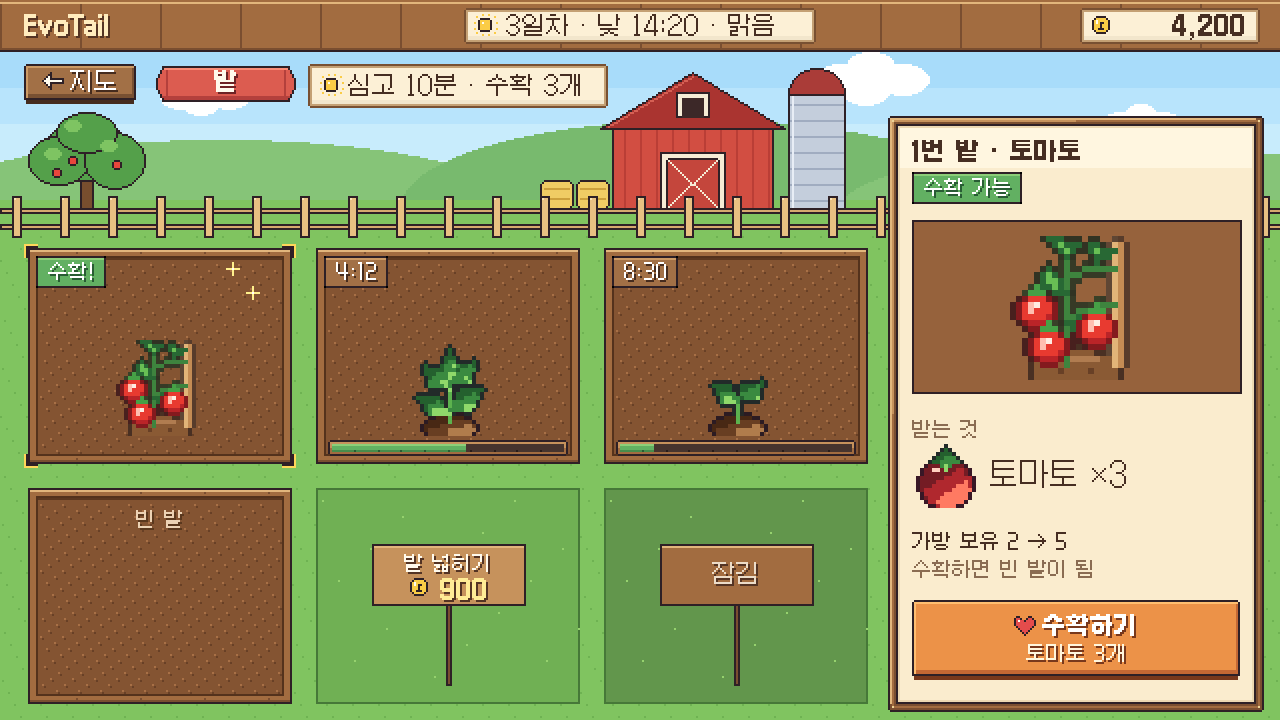
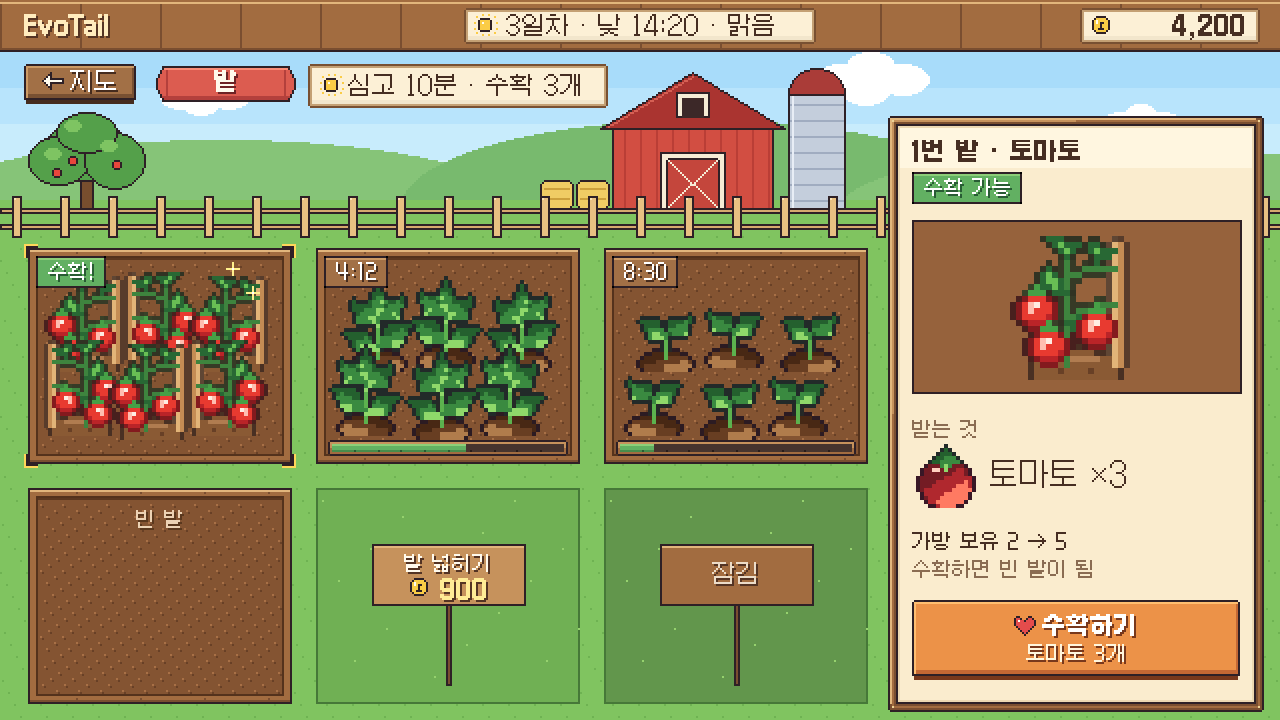
밭: 한 칸을 6포기로 채우기 · 감자·양파·밀 다 자란 그림 교체
- 작물 칸(심은 직후·새싹·자라는 중·다 자람)과 빈 밭 새싹 미리보기를 한 포기 그림(×2) 6번으로 채움.
  위치·홀수 번째 좌우 뒤집기는 plants.json plot_fill에서 읽음. 칩·게이지·반짝이는 작물 위에
- 수확 연출 시작과 함께 그 칸의 6포기는 바로 사라짐, 연출 동안 "빈 밭" 글씨 숨김
- 감자(알 3개 + 작은 싹)·양파·밀 다 자란 그림, tools/crops_v8.py, farm_icons.py·farm_mock.py, 목업 3장 갱신
- CLAUDE.md: 한 칸 = 6포기(plot_fill), 그림 다시 만드는 도구

Changed region(s): [[0.0312, 0.3667, 0.2188, 0.6111], [0.25, 0.3972, 0.4375, 0.6111], [0.4688, 0.4278, 0.6562, 0.6111]]

diff --git a/tools/crops_v8.py b/tools/crops_v8.py
@@ -1,0 +1,158 @@
+"""양파·밀·감자 v8: 손으로 찍는 도장(잎 한 장, 낟알 한 줄) 방식"""
+from PIL import Image, ImageDraw
+
+C = {'k': (36, 86, 44), 'G': (62, 134, 60), 'g': (104, 180, 80), 'l': (170, 224, 118), 'L': (208, 240, 150),
+     'h': (150, 170, 70), 'w': (255, 255, 255), 'y': (250, 206, 70), 'v': (196, 170, 230),
+     's': (140, 92, 54), 'S': (178, 126, 80), 'd': (100, 62, 36), 'o': (70, 44, 28),
+     'p': (218, 172, 108), 'P': (168, 118, 64), 'a': (244, 214, 160),
+     'Y': (255, 238, 160), 'u': (236, 192, 84), 'U': (196, 144, 50), 'b': (140, 96, 34), 'e': (190, 196, 96),
+     'n': (250, 214, 150), 'N': (226, 160, 86), 'M': (170, 102, 50), 'm': (120, 66, 34)}
+
+
+def put(px, x, y, ch):
+    if ch != '.' and 0 <= x < 24 and 0 <= y < 24: px[x, y] = C[ch] + (255,)
+
+
+def stamp(px, x, y, rows):
+    for j, r in enumerate(rows):
+        for i, ch in enumerate(r): put(px, x + i, y + j, ch)
+
+
+def soil(px, x0=3, x1=20, y=19):
+    """흙더미: 둥근 봉긋한 모양 (위 밝은 줄, 아래 진한 점)"""
+    im = Image.new('RGBA', (24, 24)); d = ImageDraw.Draw(im)
+    d.ellipse((x0, y, x1, y + 7), fill=C['s'] + (255,), outline=C['o'] + (255,))
+    d.line((x0 + 3, y + 1, x1 - 3, y + 1), fill=C['S'] + (255,))
+    for x in range(x0 + 4, x1 - 2, 4): d.point((x, y + 3), fill=C['d'] + (255,))
+    sp = im.load()
+    for yy in range(24):
+        for xx in range(24):
+            if sp[xx, yy][3] and not px[xx, yy][3]: px[xx, yy] = sp[xx, yy]
+
+
+LEAF_R = ['.kk.', 'klgk', 'kggk', '.kk.']          # 잎 한 장 (밝은 쪽 왼위)
+LEAF_Y = ['.kk.', 'kLlk', 'klhk', '.kk.']          # 다 자라 끝이 노릇한 잎
+
+
+def potato():
+    im = Image.new('RGBA', (24, 24)); px = im.load()
+    soil(px, 2, 21, 19)
+    for x, y in ((11, 18), (11, 17), (11, 16), (10, 15), (12, 15)): put(px, x, y, 'G')    # 줄기
+    leaves = [(10, 3, LEAF_R), (6, 5, LEAF_R), (14, 5, LEAF_Y), (3, 8, LEAF_R), (8, 8, LEAF_R), (12, 7, LEAF_R),
+              (16, 8, LEAF_R), (1, 12, LEAF_Y), (5, 11, LEAF_R), (10, 11, LEAF_R), (14, 11, LEAF_R), (18, 12, LEAF_R),
+              (6, 14, LEAF_R), (13, 14, LEAF_Y)]
+    for x, y, L_ in leaves: stamp(px, x, y, L_)
+    stamp(px, 10, 0, ['.w.', 'wyw', '.w.']); stamp(px, 16, 2, ['.v.', 'vyv', '.v.'])    # 감자꽃
+    stamp(px, 15, 19, ['.oo.', 'opPo'])                                                    # 흙 사이로 살짝
+    stamp(px, 5, 20, ['oaPo'])
+    return im
+
+
+def onion():
+    im = Image.new('RGBA', (24, 24)); px = im.load()
+    # 잎: 대롱 3개를 넓게 벌림 (사이 틈), 1칸 밝음 + 1칸 그림자, 끝은 바깥으로 휨
+    tubes = [((10, 12), (4, 2), -1), ((12, 12), (12, 0), 0), ((14, 12), (20, 2), 1)]
+    for (x0, y0), (x1, y1), bend in tubes:
+        n = max(abs(x1 - x0), abs(y1 - y0))
+        for t in range(n + 1):
+            x = round(x0 + (x1 - x0) * t / n); y = round(y0 + (y1 - y0) * t / n)
+            put(px, x - 1, y, 'k'); put(px, x, y, 'l' if t > n * .45 else 'g'); put(px, x + 1, y, 'G'); put(px, x + 2, y, 'k')
+        put(px, x1 + bend, y1 - 1, 'k'); put(px, x1, y1 - 1, 'k'); put(px, x1 + 1, y1 - 1, 'k')
+    for (x, y) in ((8, 8), (16, 8)): put(px, x, y, 'L')
+    stamp(px, 7, 11, ['...oooo...', '..onnNNo..', '.onnNNNMo.', 'onnNNNNNMo', 'onYNNNNMMo', 'onNNNNMMMo', '.oNNMMMMo.', '..oooooo..'])
+    soil(px, 2, 21, 17)
+    return im
+
+
+def wheat():
+    im = Image.new('RGBA', (24, 24)); px = im.load()
+    soil(px, 4, 19, 20)
+    # 잎 (노릇한 초록)
+    for (x0, y0), (x1, y1) in (((9, 20), (4, 12)), ((14, 20), (19, 12)), ((11, 20), (7, 15))):
+        n = max(abs(x1 - x0), abs(y1 - y0))
+        for t in range(n + 1): put(px, round(x0 + (x1 - x0) * t / n), round(y0 + (y1 - y0) * t / n), 'e')
+    EAR = ['.Y.', 'YuY', 'uUu', 'YuY', 'uUu', 'YuY', 'uUu', '.U.']                # 이삭 3x8, 낟알 줄무늬
+    for x, top in ((5, 4), (9, 1), (13, 2), (17, 5)):
+        for y in range(top + 8, 21): put(px, x + 1, y, 'b')                              # 줄기
+        stamp(px, x, top, EAR)
+        for i in range(3): put(px, x - 1 - i // 2, top - 1 - i, 'Y'); put(px, x + 3 + i // 2, top - 1 - i, 'Y')   # 까끄라기
+        put(px, x + 1, top - 1, 'Y')
+        for j in range(8):                                                                # 이삭 테두리
+            put(px, x - 1, top + j, 'b') if j not in (0, 7) else None
+            put(px, x + 3, top + j, 'b') if j not in (0, 7) else None
+    return im
+
+
+if __name__ == '__main__':
+    row = [potato(), onion(), wheat()]
+    o = Image.new('RGBA', (3 * 200 + 16, 208), (132, 84, 50, 255))
+    for i, im in enumerate(row): o.alpha_composite(im.resize((192, 192), Image.NEAREST), (8 + i * 200, 8))
+    o.save('../v8.png')
+
+
+# ================= v9: 동글동글 양파 / 감자 알 위주 =================
+ONION_BULB = ['.....oooo.....', '...oonnnNoo...', '..onnnnNNNMo..', '.onnYnnNNNNMo.', '.onYYnNNNNNMo.',
+              'onnYnnNNNNNMMo', 'onnnnNNNNNMMMo', 'onnnnNNNNNMMMo', '.onnNNNNNMMMo.', '.oNNNNNNMMMMo.',
+              '..ooNNNMMMoo..', '....oooooo....']
+POT_BIG = ['...ooooo...', '.oopppppoo.', 'oapppppppPo', 'oaappPppPPo', 'opppppppPPo', 'oppPpppPPPo', '.oPPPPPPPo.', '..ooooooo..']
+POT_SMALL = ['..oooo..', '.oappPo.', 'oaapppPo', 'opPppPPo', '.oPPPPo.', '..oooo..']
+
+
+def _soil_back(px, box):
+    im = Image.new('RGBA', (24, 24)); d = ImageDraw.Draw(im)
+    d.ellipse(box, fill=C['s'] + (255,), outline=C['o'] + (255,))
+    d.line((box[0] + 3, box[1] + 1, box[2] - 3, box[1] + 1), fill=C['S'] + (255,))
+    for x in range(box[0] + 4, box[2] - 2, 4): d.point((x, box[1] + 3), fill=C['d'] + (255,))
+    sp = im.load()
+    for y in range(24):
+        for x in range(24):
+            if sp[x, y][3]: px[x, y] = sp[x, y]
+
+
+def onion():
+    im = Image.new('RGBA', (24, 24)); px = im.load()
+    _soil_back(px, (2, 17, 21, 24))
+    # 짧은 초록 싹 3개 (4칸)
+    for pts in (((11, 7), (10, 6), (9, 5), (8, 4)), ((12, 7), (12, 6), (12, 5), (12, 3)), ((13, 7), (14, 6), (15, 5), (16, 4))):
+        for i, (x, y) in enumerate(pts):
+            put(px, x, y, 'l' if i == len(pts) - 1 else 'g'); put(px, x + 1, y, 'G')
+    stamp(px, 11, 7, ['oNo'])                                                                 # 마른 목
+    stamp(px, 5, 8, ONION_BULB)
+    for y in range(11, 18): put(px, 9 if y < 15 else 10, y, 'N')                             # 껍질 결
+    for y in range(10, 18): put(px, 14, y, 'M')
+    put(px, 8, 11, 'w')
+    for x in (10, 12, 14): put(px, x, 20, 'a')                                               # 뿌리
+    # 테두리 (싹)
+    out = im.copy().load()
+    for y in range(24):
+        for x in range(24):
+            if out[x, y][3]: continue
+            for dx, dy in ((1, 0), (-1, 0), (0, 1), (0, -1)):
+                if 0 <= x + dx < 24 and 0 <= y + dy < 24 and out[x + dx, y + dy][3] and out[x + dx, y + dy][:3] in (C['g'], C['G'], C['l']):
+                    px[x, y] = C['k'] + (255,); break
+    return im
+
+
+def potato():
+    im = Image.new('RGBA', (24, 24)); px = im.load()
+    _soil_back(px, (1, 16, 22, 24))
+    stamp(px, 8, 9, ['.kk.kk.', 'kllkglk', '.kgGgk.', '...G...', '...G...'])                 # 작은 싹
+    stamp(px, 1, 13, POT_SMALL)
+    stamp(px, 15, 12, [r[::-1] for r in POT_SMALL])
+    stamp(px, 6, 14, POT_BIG)
+    for x, y in ((3, 15), (17, 14)): put(px, x, y, 'a')
+    return im
+
+
+def potato():           # v10: 감자 색을 더 노랗게, 흙은 더 진하게, 알을 흙 위로
+    C.update({'p': (236, 194, 116), 'P': (196, 140, 74), 'a': (252, 230, 176)})
+    im = Image.new('RGBA', (24, 24)); px = im.load()
+    keep = C['s'], C['S']
+    C['s'], C['S'] = (110, 70, 42), (146, 98, 60)
+    _soil_back(px, (1, 17, 22, 24))
+    C['s'], C['S'] = keep
+    stamp(px, 8, 6, ['.kk.kk.', 'kllkglk', '.kgGgk.', '...G...', '...G...'])
+    stamp(px, 1, 11, POT_SMALL)
+    stamp(px, 15, 10, [r[::-1] for r in POT_SMALL])
+    stamp(px, 6, 12, POT_BIG)
+    return im

diff --git a/tools/farm_icons.py b/tools/farm_icons.py
@@ -297,3 +297,125 @@ def ripe_rice():        # v4: 가늘게 휘어 늘어진 이삭 + 작은 낟알(
 
 
 RIPE['rice'] = ripe_rice
+
+
+# ================= v5: 밀·감자 다시 =================
+def ripe_wheat():       # 가는 줄기 3개 + 날씬한 이삭(낟알 V자 무늬) + 긴 까끄라기
+    im = Image.new('RGBA', (24, 24)); d = ImageDraw.Draw(im)
+    _mound(d)
+    G0, G1, G2 = (255, 238, 160), (232, 190, 80), (170, 122, 40)
+    d.line((8, 20, 4, 13), fill=(200, 170, 80)); d.line((15, 20, 20, 14), fill=(200, 170, 80))        # 잎
+    for x, top in ((8, 5), (12, 2), (16, 5)):
+        d.line((x, 21, x, top + 8), fill=G2)
+        for i in range(4):                                                                              # V자 낟알
+            y = top + i * 2
+            d.point((x - 1, y), fill=G1); d.point((x + 1, y), fill=G1); d.point((x, y + 1), fill=G0)
+            d.point((x - 1, y + 1), fill=G2); d.point((x + 1, y + 1), fill=G2)
+        d.point((x, top - 1), fill=G1)
+        d.line((x - 1, top - 1, x - 2, top - 4), fill=G0); d.line((x + 1, top - 1, x + 2, top - 4), fill=G0)  # 까끄라기
+        d.line((x, top - 2, x, top - 4), fill=G0)
+    return outline(im)
+
+
+def ripe_potato():      # 동글동글 잎 덤불 + 흰 꽃 + 흙 위로 보이는 감자 2알
+    im = Image.new('RGBA', (24, 24)); d = ImageDraw.Draw(im)
+    _mound(d)
+    L0, L1, L2, LD = (176, 226, 120), (112, 186, 82), (70, 140, 60), (40, 96, 46)
+    for bx in ((3, 8, 11, 16), (13, 8, 21, 16), (7, 4, 17, 13), (5, 11, 13, 18), (11, 11, 19, 18)):
+        d.ellipse(bx, fill=L1, outline=LD)
+    for bx in ((8, 5, 12, 8), (14, 9, 18, 12), (4, 9, 8, 12)): d.ellipse(bx, fill=L0)
+    for x, y in ((9, 13), (15, 14), (12, 10)): d.point((x, y), fill=L2)
+    for x, y in ((9, 4), (15, 6)):                                                                       # 감자꽃
+        d.point([(x, y - 1), (x - 1, y), (x + 1, y), (x, y + 1)], fill=(255, 255, 255)); d.point((x, y), fill=(250, 210, 60))
+    for bx in ((4, 18, 10, 22), (13, 18, 19, 22)):                                                       # 감자
+        d.ellipse(bx, fill=(206, 160, 98), outline=(110, 72, 38)); d.point((bx[0] + 2, bx[1] + 1), fill=(240, 206, 150))
+        d.point((bx[0] + 4, bx[1] + 2), fill=(150, 104, 58))
+    return outline(im)
+
+
+RIPE.update({'wheat': ripe_wheat, 'potato': ripe_potato})
+# 밭 한 칸을 꽉 채우는 배치 (칸 안 좌표, 원본 ×2 = 48px 그림의 왼쪽 위). 뒷줄 먼저 그림
+FILL = [(6, 14), (42, 12), (78, 14), (-2, 46), (34, 48), (70, 46)]
+
+
+# ================= v6: 양파·밀·감자 다시 =================
+def ripe_onion():       # 길쭉한 초록 잎 3갈래 + 반쯤 흙에 묻힌 황금빛 양파
+    im = Image.new('RGBA', (24, 24)); d = ImageDraw.Draw(im)
+    g, G, D = (156, 218, 104), (86, 172, 74), (46, 112, 52)
+    for pts in (((11, 12), (8, 6), (5, 2)), ((12, 12), (12, 6), (12, 0)), ((13, 12), (16, 7), (19, 3))):
+        d.line(pts, fill=G); d.line([(x + 1, y) for x, y in pts], fill=D)
+        d.point(pts[-1], fill=g); d.point(((pts[1][0] + pts[2][0]) // 2, (pts[1][1] + pts[2][1]) // 2), fill=g)
+    Y0, Y1, Y2 = (255, 230, 168), (234, 178, 96), (178, 112, 54)
+    d.polygon([(11, 9), (13, 9), (14, 12), (10, 12)], fill=Y1)                                  # 목
+    d.ellipse((6, 11, 18, 22), fill=Y1, outline=Y2)
+    d.chord((6, 11, 18, 22), 300, 60, fill=(206, 140, 70)); d.ellipse((6, 11, 18, 22), outline=Y2)   # 오른쪽 그림자
+    d.arc((8, 11, 16, 23), 200, 260, fill=Y2); d.arc((8, 11, 16, 23), 280, 340, fill=Y2)       # 껍질 결
+    d.ellipse((8, 13, 11, 17), fill=Y0); d.point((9, 14), fill=(255, 250, 230))
+    d.ellipse((3, 19, 21, 25), fill=(138, 90, 52)); d.line((6, 20, 18, 20), fill=(176, 124, 80))   # 흙 (아래 반 덮음)
+    d.point([(8, 22), (15, 22)], fill=(104, 64, 38))
+    return outline(im)
+
+
+def ripe_wheat():       # 이삭 4개 (3칸 폭, 낟알 줄무늬) + 까끄라기 + 금빛 잎
+    im = Image.new('RGBA', (24, 24)); d = ImageDraw.Draw(im)
+    _mound(d)
+    Y0, Y1, Y2, Y3 = (255, 240, 170), (240, 200, 90), (204, 150, 52), (150, 100, 34)
+    d.line((9, 21, 4, 13), fill=(206, 182, 84)); d.line((14, 21, 20, 13), fill=(206, 182, 84))
+    for cx, top, lean in ((6, 6, -1), (10, 3, 0), (14, 4, 0), (18, 7, 1)):
+        d.line((cx - lean, 21, cx, top + 8), fill=Y3)
+        for r in range(8):
+            y = top + r
+            row = (Y1, Y0, Y1) if r % 2 == 0 else (Y2, Y1, Y2)
+            if r in (0, 7): row = (None, Y1, None)
+            for i, c in enumerate(row):
+                if c: d.point((cx - 1 + i, y), fill=c)
+        d.point((cx, top - 1), fill=Y0); d.point((cx - 1, top - 2), fill=Y0); d.point((cx + 1, top - 2), fill=Y0)
+        d.point((cx - 2, top - 1), fill=Y1); d.point((cx + 2, top), fill=Y1)
+    return outline(im)
+
+
+def ripe_potato():      # 작은 잎 덤불 + 흙 위로 드러난 감자 3알 (감자가 주인공)
+    im = Image.new('RGBA', (24, 24)); d = ImageDraw.Draw(im)
+    L0, L1, LD = (170, 224, 116), (98, 178, 78), (48, 112, 52)
+    d.line((12, 16, 9, 10), fill=LD); d.line((12, 16, 15, 9), fill=LD); d.line((12, 16, 12, 8), fill=LD)
+    for bx in ((5, 6, 11, 11), (13, 5, 19, 10), (9, 2, 15, 8), (4, 10, 9, 14), (15, 10, 20, 14)):
+        d.ellipse(bx, fill=L1, outline=LD); d.point((bx[0] + 2, bx[1] + 1), fill=L0); d.point((bx[0] + 1, bx[1] + 2), fill=L0)
+    d.point([(12, 1), (11, 2), (13, 2), (12, 3)], fill=(255, 255, 255)); d.point((12, 2), fill=(250, 210, 60))   # 꽃
+    d.ellipse((1, 15, 23, 25), fill=(138, 90, 52)); d.line((4, 16, 20, 16), fill=(176, 124, 80))
+    for bx in ((2, 14, 10, 20), (14, 14, 22, 20), (8, 17, 16, 23)):                                       # 감자 3알
+        d.ellipse(bx, fill=(214, 168, 104), outline=(112, 70, 36))
+        d.arc((bx[0] + 1, bx[1] + 1, bx[2] - 1, bx[3] - 1), 10, 120, fill=(170, 120, 66))
+        d.point((bx[0] + 2, bx[1] + 2), fill=(244, 214, 160)); d.point((bx[0] + 3, bx[1] + 2), fill=(244, 214, 160))
+        d.point((bx[0] + 5, bx[1] + 3), fill=(140, 92, 48))
+    return outline(im)
+
+
+RIPE.update({'onion': ripe_onion, 'wheat': ripe_wheat, 'potato': ripe_potato})
+
+
+def ripe_potato():      # v7: 잎을 따로따로(틈 있게) + 줄기 보이게
+    im = Image.new('RGBA', (24, 24)); d = ImageDraw.Draw(im)
+    L0, L1, L2, LD = (176, 228, 120), (104, 182, 80), (70, 144, 62), (40, 100, 48)
+    for a, b in (((12, 16), (6, 9)), ((12, 16), (18, 8)), ((12, 16), (12, 5)), ((12, 14), (4, 13)), ((12, 14), (20, 13))):
+        d.line((a, b), fill=L2)
+    for cx, cy in ((6, 8), (18, 7), (12, 4), (4, 12), (20, 12)):                                          # 잎 하나 = 4x3 타원
+        d.ellipse((cx - 2, cy - 2, cx + 2, cy + 1), fill=L1, outline=LD)
+        d.point((cx - 1, cy - 1), fill=L0); d.point((cx + 1, cy), fill=L2)
+    for cx, cy in ((9, 10), (15, 10)):
+        d.ellipse((cx - 2, cy - 1, cx + 1, cy + 1), fill=L1, outline=LD); d.point((cx - 1, cy), fill=L0)
+    d.point([(12, 0), (11, 1), (13, 1), (12, 2)], fill=(255, 255, 255)); d.point((12, 1), fill=(250, 210, 60))
+    d.ellipse((1, 15, 23, 25), fill=(138, 90, 52)); d.line((4, 16, 20, 16), fill=(176, 124, 80))
+    for bx in ((2, 14, 10, 20), (14, 14, 22, 20), (8, 17, 16, 23)):
+        d.ellipse(bx, fill=(214, 168, 104), outline=(112, 70, 36))
+        d.arc((bx[0] + 1, bx[1] + 1, bx[2] - 1, bx[3] - 1), 10, 120, fill=(170, 120, 66))
+        d.point((bx[0] + 2, bx[1] + 2), fill=(244, 214, 160)); d.point((bx[0] + 3, bx[1] + 2), fill=(244, 214, 160))
+        d.point((bx[0] + 5, bx[1] + 3), fill=(140, 92, 48))
+    return outline(im)
+
+
+RIPE['potato'] = ripe_potato
+
+
+# ================= v8: 손으로 찍은 감자·양파·밀 (crops_v8.py) =================
+import crops_v8 as _V8
+RIPE.update({'potato': _V8.potato, 'onion': _V8.onion, 'wheat': _V8.wheat})

diff --git a/gui/scenes/farm.py b/gui/scenes/farm.py
@@ -26,7 +26,11 @@ PANEL = pygame.Rect(444, 58, 188, 298)
 ART = pygame.Rect(PANEL.x + 12, 110, PANEL.w - 24, 86)
 PLANT_DIR = os.path.join(T.ROOT, 'assets', 'farm', 'plants')
 with open(os.path.join(PLANT_DIR, 'plants.json'), encoding='utf-8') as _f:
-    STAGES = {k: v for k, v in json.load(_f)['stages_by_progress'].items() if isinstance(v, list)}
+    _PLANTS = json.load(_f)
+STAGES = {k: v for k, v in _PLANTS['stages_by_progress'].items() if isinstance(v, list)}
+# 한 칸 = 한 포기 그림(×2) 6번: 위치는 칸(132×108 기준) 왼쪽 위에서 그림 왼쪽 위, 순서대로(뒷줄 먼저), 홀수 번째는 좌우 뒤집기
+PLOT_FILL = _PLANTS.get('plot_fill', {})
+FILL_BASE_W = 132
 SOIL = (132, 84, 50)
 POP_SECONDS = 0.6
 SPARK = (255, 240, 140)
@@ -43,12 +47,14 @@ class Plants:
     def __init__(self):
         self._c = {}
 
-    def get(self, name, n=2, alpha=255):
-        key = (name, n, alpha)
+    def get(self, name, n=2, alpha=255, flip=False):
+        key = (name, n, alpha, flip)
         if key not in self._c:
             img = pygame.image.load(os.path.join(PLANT_DIR, f'{name}.png')).convert_alpha()
             w, h = img.get_size()
             img = pygame.transform.scale(img, (w // 4 * n, h // 4 * n))
+            if flip:
+                img = pygame.transform.flip(img, True, False)
             if alpha < 255:
                 img = img.copy()
                 img.fill((255, 255, 255, alpha), special_flags=pygame.BLEND_RGBA_MULT)
@@ -306,10 +312,10 @@ class FarmScene(Scene):
         else:
             p = self.plots()[i]
             surface.blit(soil_tile(r.w, r.h), r)
-            pos = (r.x + (r.w - 48) // 2, r.bottom - 62)
+
             popping = any(pi == i for pi, _, _ in self.pops)
             if p.get('crop'):
-                surface.blit(self.plants.get(self.stage(p), 2), pos)
+                self._fill(surface, r, self.stage(p))           # 6포기 먼저, 칩·게이지·반짝이는 그 위에
                 if p.get('ready'):
                     for k, (sx, sy) in enumerate(((r.x + 18, r.y + 16), (r.right - 20, r.y + 22),
                                                   (r.right - 30, r.y + 10))):
@@ -325,12 +331,19 @@ class FarmScene(Scene):
                           FARM_DISPLAY['duration'] - rem, FARM_DISPLAY['duration'], 'green')
             else:
                 if i == self.selected and self.seed and self.seeds(self.seed) and not popping:   # 심을 자리 미리보기
-                    surface.blit(self.plants.get('sprout', 2, 128), pos)
+                    self._fill(surface, r, 'sprout', 128)
                 if not popping:          # 수확 연출 동안은 "빈 밭" 글씨 숨김
                     text(surface, '빈 밭', (r.centerx, r.y + 10), 'small', (236, 210, 180), 'midtop',
                          shadow=(90, 56, 30))
         if i == self.selected:
             select_frame(surface, r.inflate(4, 4))
+
+    def _fill(self, surface, r, name, alpha=255):
+        """칸을 한 포기 그림(원본 ×2) 6번으로 채움. 위치·뒤집기는 plants.json plot_fill."""
+        ox = r.x + max(0, (r.w - FILL_BASE_W) // 2)
+        flip_odd = PLOT_FILL.get('flip_odd', False)
+        for k, (x, y) in enumerate(PLOT_FILL.get('positions', [])):
+            surface.blit(self.plants.get(name, 2, alpha, flip=flip_odd and k % 2 == 1), (ox + x, r.y + y))
 
     def _draw_pops(self, surface):
         """수확: 작물 아이콘 3개가 위로 톡 튀었다 사라짐 (0.6초)."""

diff --git a/tools/farm_mock.py b/tools/farm_mock.py
@@ -111,10 +111,18 @@ def locked(base, x, y, w, h, cost, next_one):
 def mmss(sec): return f'{sec // 60}:{sec % 60:02d}'
 
 
+def fill_plants(base, x, y, w, im):
+    """밭 한 칸을 6포기로 꽉 채움 (뒷줄 → 앞줄, 번갈아 좌우 뒤집기)"""
+    ox = x + (w - 132) // 2
+    for i, (dx, dy) in enumerate([(6, 14), (42, 12), (78, 14), (2, 46), (38, 48), (74, 46)]):
+        g = im.transpose(Image.FLIP_LEFT_RIGHT) if i % 2 else im
+        paste(base, g, (ox + dx, y + dy))
+
+
 def plot_tile(base, x, y, w, h, crop, st, rem, sel=False, hover_seed=None):
     soil(base, x, y, w, h)
     if crop:
-        paste(base, plant(crop, st), (x + (w - 48) // 2, y + h - 62))
+        fill_plants(base, x, y, w, plant(crop, st))
         if st == 'ripe':
             d = ImageDraw.Draw(base)
             for sx, sy in ((x + 18, y + 16), (x + w - 20, y + 22), (x + w - 30, y + 10)):
@@ -126,7 +134,7 @@ def plot_tile(base, x, y, w, h, crop, st, rem, sel=False, hover_seed=None):
     else:
         if hover_seed:                                                                        # 심을 자리 미리보기
             g = plant(hover_seed, 'sprout'); g.putalpha(g.getchannel('A').point(lambda v: v * 0.5))
-            paste(base, g, (x + (w - 48) // 2, y + h - 62))
+            fill_plants(base, x, y, w, g)
         text_mid(base, x + w / 2, y + 16, '빈 밭', K.F_SMALL(), (236, 210, 180), (90, 56, 30))
     if sel: B.corners(base, x - 2, y - 2, x + w + 1, y + h + 1)
 

diff --git a/CLAUDE.md b/CLAUDE.md
@@ -237,9 +237,12 @@ CHARACTERS.md        캐릭터 목록 · GUI.md 화면 구조 설명
 - 오른쪽 칸: 빈 밭 = 씨앗 카드 2열 × 3줄(봉투 ×2, 이름, "보유 N", 0이면 빨강 + 반투명), "씨앗 1개 → 감자 3개", "씨앗은 상점에서 N코인"(상점 목록 buy), "감자 심기"(아래 "10분 뒤 수확", 씨앗 0이면 회색 "씨앗 없음") = `plant_crop(index, crop)` / 자라는 중 = 큰 그림 ×3, 남은 시간 + 게이지, "다 자라면 감자 ×3" / 다 자람 = "수확 가능" 칩, 큰 그림, "받는 것: 토마토 ×3", "가방 보유 2 → 5", "수확하기" = `harvest_crop(index)` / 안 산 칸 = 팻말 + 가격 + "밭 넓히기" → 확인 창 → `expand_plot`(코인 부족 등은 백엔드 알림)
 - 수확하면 그 칸에서 작물 아이콘 3개가 위로 톡 튀었다 사라짐(0.6초, 그동안 "빈 밭" 글씨·새싹 미리보기 숨김) + "토마토 +3" 알림
 - **작물 그림** `assets/farm/plants/`: seeded / sprout / growing / `<작물>_ripe` (원본 24×24, 파일 4배 96). 밭 칸 ×2(48), 오른쪽 ×3(72). 단계는 진행 = 1 - 남은 시간 / 자라는 시간 → `plants.json`의 구간(0~20% seeded, 20~55% sprout, 55~100% growing, ready면 ripe)
+  - **한 칸 = 한 포기 그림(×2) 6번**: 위치는 `plants.json`의 `plot_fill.positions`(칸 132×108 기준, 칸 왼쪽 위에서 48px 그림의 왼쪽 위, 순서대로 = 뒷줄 먼저), `flip_odd`면 홀수 번째(1·3·5)는 좌우 뒤집기, 칸이 132보다 넓으면 가운데 맞춤. 위치 숫자는 코드에 적지 않고 json에서 읽음 (`FarmScene._fill`). 빈 밭 새싹 미리보기도 6포기. 칩·게이지·반짝이는 작물 위에. 오른쪽 상세 칸은 한 포기 ×3
+  - 수확 연출이 시작되면 그 칸의 6포기는 바로 사라짐 (백엔드에서 빈 밭이 됨)
+  - 다시 만들기: 감자·양파·밀 다 자란 그림은 `tools/crops_v8.py`, 나머지(토마토·쌀·양배추 다 자람, 성장 단계, 씨앗 봉투)는 `tools/farm_icons.py`
 - **GUI 표시값** (`farm.FARM_DISPLAY`): 자라는 시간 600초, 수확 개수 3개. 백엔드 `config.CROP_DURATION`·`CROP_YIELD`인데 `get_rules`·스냅샷에 안 나와서 GUI에 둠. 백엔드 값을 바꾸면 같이 바꿀 것 (기영님께 `get_rules`에 넣어 달라고 요청 가능). 밭 가격은 `get_rules()['plot_costs']` 백엔드 값
 - 작물·씨앗 이름은 상점 목록 label. 양배추 재료 그림 `assets/food/cabbage.png`(food_icons.json에 추가)
-- 다시 만들기: `tools/farm_icons.py`(작물·씨앗 봉투), `tools/farm_mock.py`(목업·배경)
+- 다시 만들기: `tools/farm_icons.py`(작물·성장 단계·씨앗 봉투), `tools/crops_v8.py`(감자·양파·밀 다 자람), `tools/farm_mock.py`(목업·배경)
 
 ## 진행 상황
 - 완료: 백엔드 1차(기영), 캐릭터 30종 데이터, 역할별 MAX, 도트 75장 (PR #1 merge됨)
